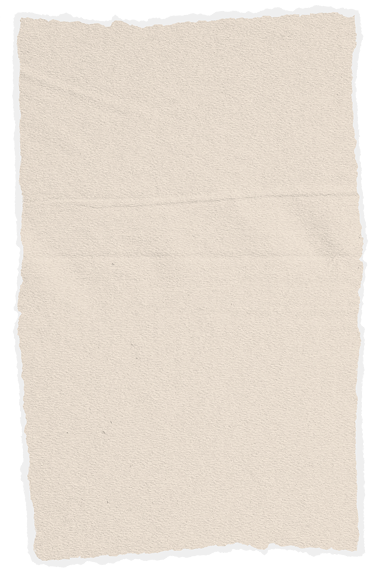
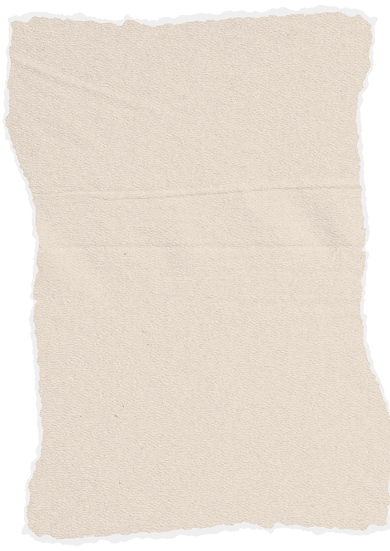
abhi

diff --git a/anuv-jain/src/app/globals.css b/anuv-jain/src/app/globals.css
@@ -3,6 +3,10 @@
     padding: 0;
 }
 
+main.overflow2 {
+    overflow: hidden;
+}
+
 body {
     overflow-x: hidden !important;
     background: #1a1a1a;
@@ -511,7 +515,7 @@ section {
     background: #1A1A1A;
     color: #fff;
     width: 350px;
-        letter-spacing: -.03em;
+    letter-spacing: -.03em;
     margin-bottom: 6px;
     font-family: IBM Plex Mono;
     font-size: 18px;
@@ -536,7 +540,7 @@ section {
     display: flex;
 }
 
- 
+
 
 img.spotify3 {
     width: 46px;
@@ -703,7 +707,7 @@ ul.dates-list li {
     left: -144px;
     overflow: hidden;
     transform: rotate(353deg);
-    box-shadow: 0 0 4px #000; 
+    box-shadow: 0 0 4px #000;
 }
 
 .polaroid-image {
@@ -1308,10 +1312,12 @@ img.prevslide.disab {
     letter-spacing: 0.1em;
     margin-bottom: 30px;
 }
+
 .h3-anuv {
     display: flex;
     align-items: center;
 }
+
 .about-anuv h3 {
     color: #000;
     letter-spacing: -24px;
@@ -1321,9 +1327,11 @@ img.prevslide.disab {
     line-height: 1.5;
     animation: 12s infinite pichkana;
 }
+
 h3.pl-2 {
     padding-left: 22px;
 }
+
 h3.dottt {
     font-size: 27px;
     padding-left: 8px;
@@ -1548,7 +1556,7 @@ main.archivemain {
     transform: rotate(3deg);
 }
 
-.tiltefou h2 {   
+.tiltefou h2 {
     color: #000;
     letter-spacing: -50px;
     width: 470px;
@@ -1560,7 +1568,7 @@ main.archivemain {
     animation: 5s ease-in-out infinite rooteat;
     position: relative;
     left: -55px;
-        top: 22px;
+    top: 22px;
     animation: pichkana 12s infinite;
 }
 
@@ -1884,25 +1892,25 @@ button.forbutton {
 }
 
 @media screen and (max-width: 1600px) {
-.social-icons { 
-    gap: 40px; 
-}
+    .social-icons {
+        gap: 40px;
+    }
 
 
-img.spotify3 {
-    width: 37px;
-    height: 37px;
-}
+    img.spotify3 {
+        width: 37px;
+        height: 37px;
+    }
 
-img.youtube2 {
-    width: 55px;
-    height: 37px;
-}
+    img.youtube2 {
+        width: 55px;
+        height: 37px;
+    }
 
-img.x1 {
-    width: 43px;
-    height: 37px;
-}
+    img.x1 {
+        width: 43px;
+        height: 37px;
+    }
 
 
 
@@ -1928,7 +1936,7 @@ img.x1 {
     }
 
     .tiltefou h2 {
-       font-size: 155px;
+        font-size: 155px;
     }
 
     .discriptioncontent h5 {
@@ -2685,11 +2693,26 @@ img.x1 {
     }
 
     .paperimg {
-        width: 100%;
+        width: 88%;
+    }
+
+    .checkbox-wrap input[type="checkbox"]+label:before {
+        margin-right: 5px;
+    }
+
+    .checkbox-wrap input[type="checkbox"]+label:before {
+        background-size: 15px;
+        width: 16px;
+        height: 16px;
+        top: -1px;
     }
 
 
-
+    .checkbox-wrap input[type="checkbox"]:checked+label:after {
+        font-size: 13px;
+        top: -1px;
+        left: 2px;
+    }
 
     img.bottom-img {
         display: none;
@@ -2941,7 +2964,7 @@ img.x1 {
         font-size: 85px;
     }
 
-  
+
     .social-icons a {
         width: 32px;
         height: 30px;

diff --git a/anuv-jain/src/app/header/Header.tsx b/anuv-jain/src/app/header/Header.tsx
@@ -38,35 +38,48 @@ export default function Header() {
   }, []);
 
   return (
-    <div className={`navbar ${open ? "open" : ""}`}>
 
-      <div className="menu-icon" onClick={() => setOpen(!open)}>
-        <img src="/images/menu-arro.svg"/>
-      </div>
 
-      <div className="navbox home-nav">
-        <div className="relative">
-          <Link href="/" className="link _1">Home</Link>
-        </div>
-      </div>
 
-      <div className="navbox merch-nav">
-        <div className="relative">
-          <Link href="/merch" className="link _2">Merch</Link>
-        </div>
-      </div>
+<div className={`navbar ${open ? "open" : ""}`}>
+  <div className="menu-icon" onClick={() => setOpen(!open)}>
+    <img src="/images/menu-arro.svg" />
+  </div>
 
-      <div className="navbox archives-nav">
-        <div className="relative">
-          <Link href="/archives" className="link _3">Archives</Link>
-        </div>
-      </div>
-
-      <div className="navbox for-you-nav">
-        <div className="relative">
-          <Link href="/for-you" className="link _4">For You</Link>
-        </div>
-      </div>
+  <div className="navbox home-nav">
+    <div className="relative">
+      <Link href="/" className="link _1" onClick={() => setOpen(false)}>
+        Home
+      </Link>
     </div>
+  </div>
+
+  <div className="navbox merch-nav">
+    <div className="relative">
+      <Link href="/merch" className="link _2" onClick={() => setOpen(false)}>
+        Merch
+      </Link>
+    </div>
+  </div>
+
+  <div className="navbox archives-nav">
+    <div className="relative">
+      <Link href="/archives" className="link _3" onClick={() => setOpen(false)}>
+        Archives
+      </Link>
+    </div>
+  </div>
+
+  <div className="navbox for-you-nav">
+    <div className="relative">
+      <Link href="/for-you" className="link _4" onClick={() => setOpen(false)}>
+        For You
+      </Link>
+    </div>
+  </div>
+</div>
+
+ 
+
   );
 }

diff --git a/anuv-jain/src/app/for-you/page.tsx b/anuv-jain/src/app/for-you/page.tsx
@@ -1,8 +1,7 @@
 "use client";
 import { useEffect } from "react";
 import $ from "jquery";
-
-
+ 
 export default function Foryou() {
 
   useEffect(() => {
@@ -114,8 +113,7 @@ export default function Foryou() {
           </div>
         </section>
 
-        <section className="paper2 paperclass">
-
+        <section className="paper2 paperclass"> 
           <div className="paperimg">
 
             <div className="imgpaper">
@@ -158,8 +156,7 @@ export default function Foryou() {
           </div>
         </section>
 
-        <section className="paper3 paperclass">
-
+        <section className="paper3 paperclass"> 
           <div className="paperimg">
 
             <div className="imgpaper">
@@ -202,8 +199,7 @@ export default function Foryou() {
           </div>
         </section>
 
-        <section className="paper4 paperclass">
-
+        <section className="paper4 paperclass"> 
           <div className="paperimg">
 
             <div className="imgpaper">
@@ -244,9 +240,7 @@ export default function Foryou() {
 
             </div>
           </div>
-        </section>
-
-
+        </section> 
 
       </main>
     </>

diff --git a/anuv-jain/src/app/responsive.css b/anuv-jain/src/app/responsive.css
@@ -1,5 +1,3 @@
-
-
 @media screen and (max-width: 767px) {
 
     /*======== navbar =========*/
@@ -10,12 +8,14 @@
         width: auto;
         height: auto;
         position: fixed;
-        top: 89%;
+        top: 590px;
         right: -31px;
         transform: translateY(-50%) rotate(90deg);
         transition: 1s;
     }
-
+.wrapper.first {
+    padding: 0;
+}
     .navbar.open {
         right: 0px;
     }
@@ -66,8 +66,6 @@
         display: block;
     }
 
-
-
     .notebg {
         position: absolute;
         top: 230px;
@@ -75,7 +73,6 @@
         width: 90%;
         left: 2%;
     }
-
 
     .cardimg {
         width: 225px;
@@ -140,7 +137,7 @@
     }
 
     .content-paper {
-        padding: 30px;
+        padding: 40px;
         left: 0%;
     }
 
@@ -163,8 +160,9 @@
     .paper2.paperclass.show,
     .paper3.paperclass.show,
     .paper4.paperclass.show {
-        right: 0%;
         top: auto;
+        right: 0%;
+        height: 100%;
     }
 
     .polaroid-group-row {
@@ -207,12 +205,6 @@
     .tiltefou h2 {
         font-size: 88px;
     }
-
-
-
-
-
-
 
 
 

diff --git a/anuv-jain/src/app/page.tsx b/anuv-jain/src/app/page.tsx
@@ -64,7 +64,7 @@ const handleScroll = () => {
  
   return (
     <>
-      <main>
+      <main className="overflow2">
         <section className="main-banner">
           <img className="top-img" src="images/banner-top.png" />
 
